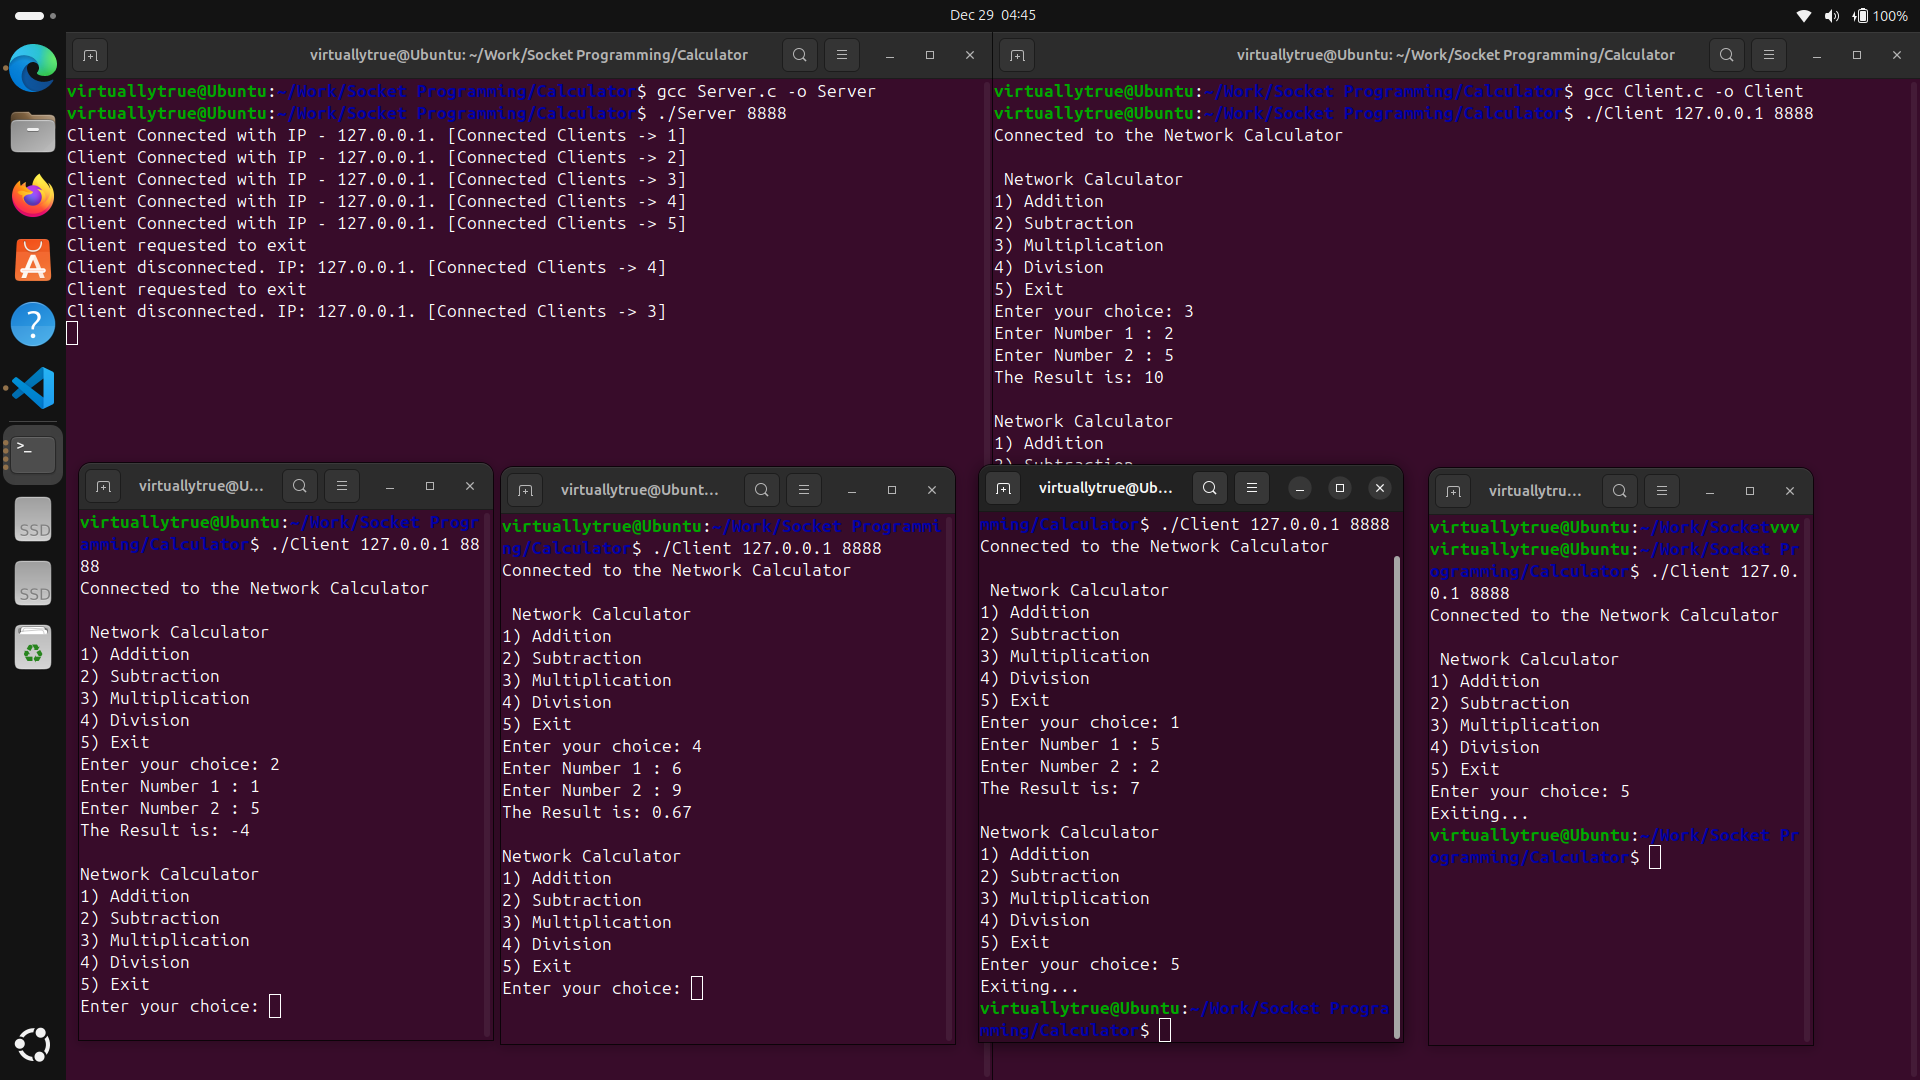
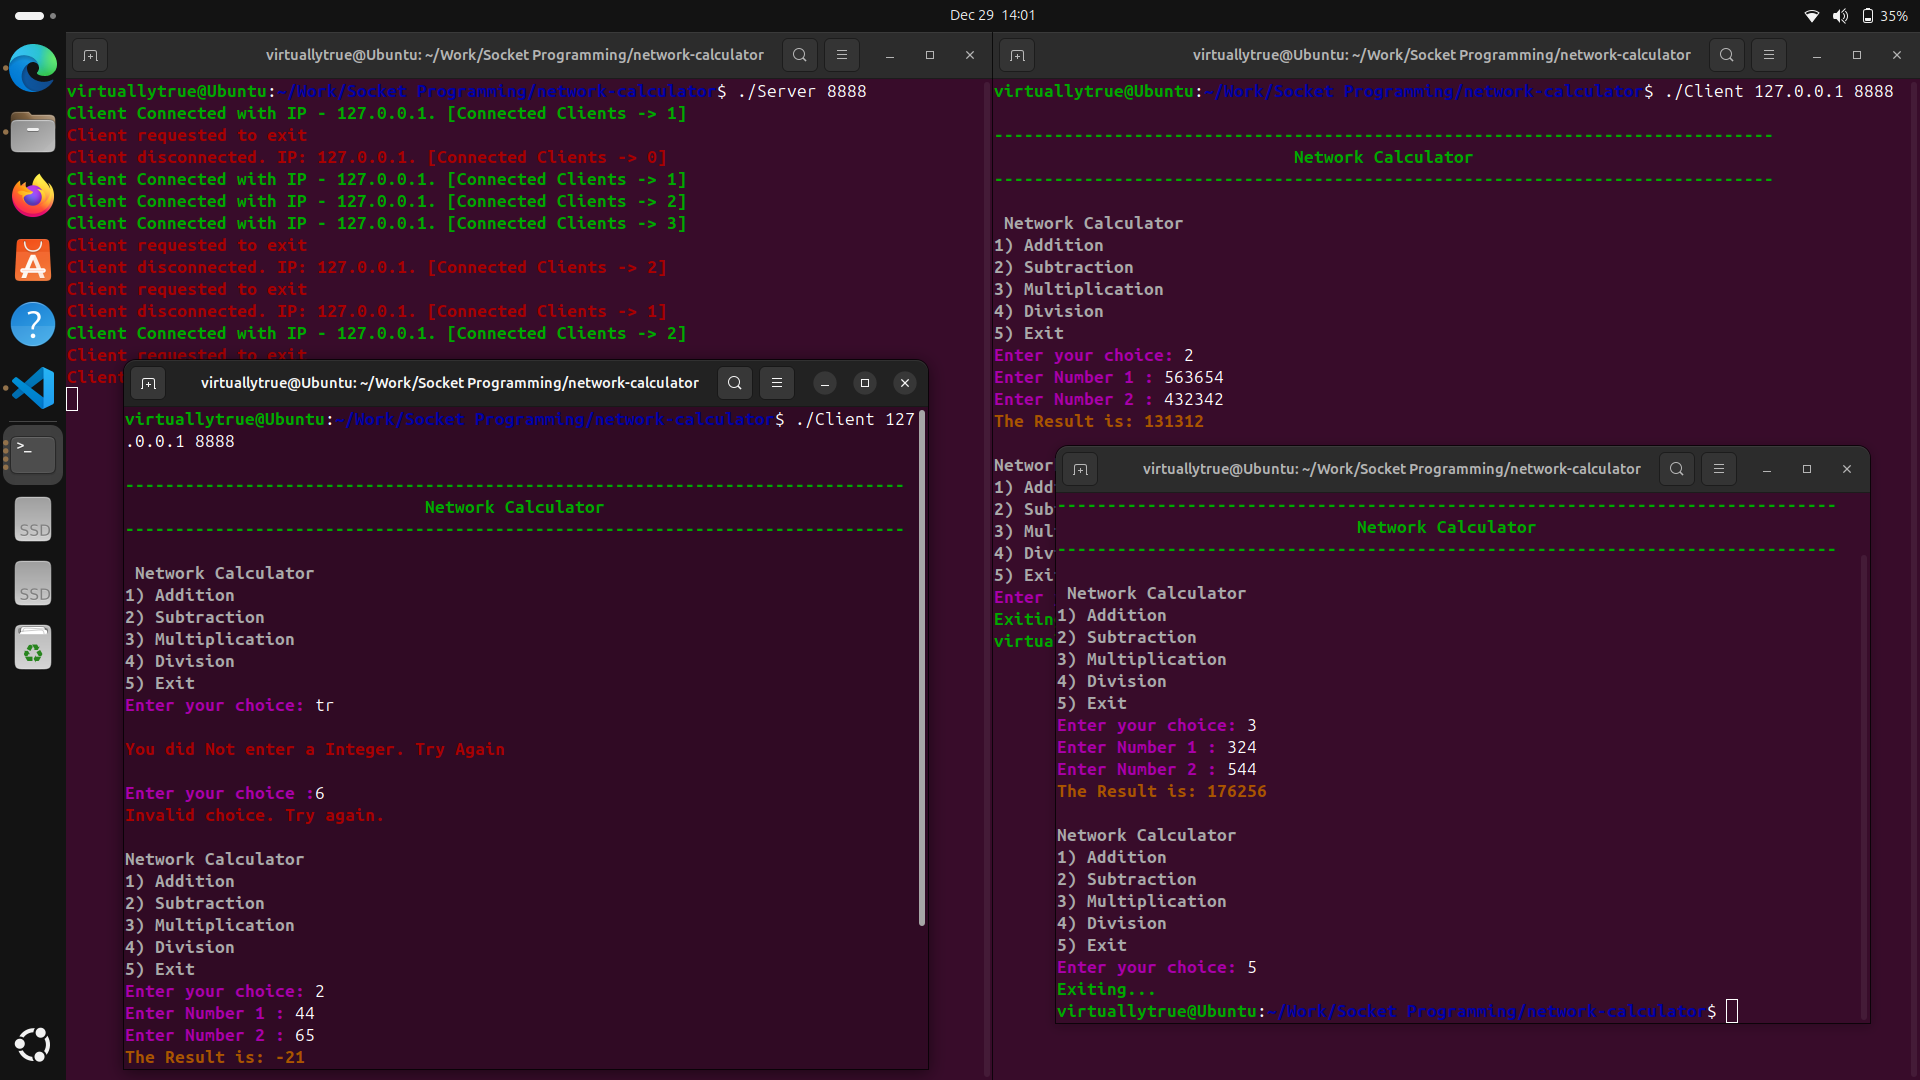
Added support for colored terminal messages

Changed region(s): [[0.0312, 0.0306, 1.0, 1.0], [0.9375, 0.0, 1.0, 0.0306]]

diff --git a/Server.c b/Server.c
@@ -24,14 +24,14 @@ void createsocketandbind(int port_num){
 
      sockFD = socket(AF_INET,SOCK_STREAM,0);
      if(sockFD<0)
-        error("Error In Making The Socket");
+        error("\033[1;31mError In Making The Socket\033[0m");
 
     server_addr.sin_family = AF_INET;
     server_addr.sin_port = htons(port_num);
     server_addr.sin_addr.s_addr = INADDR_ANY;
 
     if(bind(sockFD, (struct sockaddr *)&server_addr,sizeof(server_addr)))
-        error("Error While Binding");
+        error("\033[1;31mError While Binding\033[0m");
 
 }
 
@@ -67,7 +67,7 @@ void *AcceptedClientProcessing(void *arg) {
 
       // Get the client's address
     if (getpeername(newsockFD, (struct sockaddr *)&client_addr, &client_len) == -1) {
-        perror("getpeername failed");
+        perror("\033[1;31mgetpeername failed\033[0m");
         return NULL;
     }
 
@@ -75,42 +75,42 @@ void *AcceptedClientProcessing(void *arg) {
 
     while (1) {
         // Send the menu
-        if(writingtoClient(" Network Calculator\n1) Addition\n2) Subtraction\n3) Multiplication\n4) Division\n5) Exit\nEnter your choice: ", newsockFD)==1)
+        if(writingtoClient(" \033[1;37mNetwork Calculator\n1) Addition\n2) Subtraction\n3) Multiplication\n4) Division\n5) Exit\033[1;35m\nEnter your choice: \033[0m", newsockFD)==1)
             break;
 
         // Read the client's choice
         if(readfromClient(newsockFD,&choice)==1)
             break;
         if (choice >= 1 && choice <= 4) {
-            if(writingtoClient("Enter Number 1 : ", newsockFD)==1)
+            if(writingtoClient("\033[1;35mEnter Number 1 : \033[0m", newsockFD)==1)
                 break;
             if(readfromClient(newsockFD,&num1)==1)
                 break;
 
-            if(writingtoClient("Enter Number 2 : ", newsockFD)==1)
+            if(writingtoClient("\033[1;35mEnter Number 2 : \033[0m", newsockFD)==1)
                 break;
             if(readfromClient(newsockFD,&num2)==1)
                 break;
 
             char result[50];
             switch (choice) {
-                case 1: snprintf(result, sizeof(result), "The Result is: %d\n", num1 + num2); break;
-                case 2: snprintf(result, sizeof(result), "The Result is: %d\n", num1 - num2); break;
-                case 3: snprintf(result, sizeof(result), "The Result is: %d\n", num1 * num2); break;
-                case 4: snprintf(result, sizeof(result), "The Result is: %.2f\n", num2 ? (float)num1 / num2 : 0.0); break;
+                case 1: snprintf(result, sizeof(result), "\033[1;33mThe Result is: %d\033[0m\n", num1 + num2); break;
+                case 2: snprintf(result, sizeof(result), "\033[1;33mThe Result is: %d\033[0m\n", num1 - num2); break;
+                case 3: snprintf(result, sizeof(result), "\033[1;33mThe Result is: %d\033[0m\n", num1 * num2); break;
+                case 4: snprintf(result, sizeof(result), "\033[1;33mThe Result is: %.2f\033[0m\n", num2 ? (float)num1 / num2 : 0.0); break;
             }
             if(writingtoClient(result, newsockFD)==1)
                 break;
         } else if (choice == 5) {
-            printf("Client requested to exit\n");
+            printf("\033[1;31mClient requested to exit\033[0m\n");
             break;
         } else {
-            if(writingtoClient("Invalid choice. Try again.\n", newsockFD)==1)
+            if(writingtoClient("\033[1;31mInvalid choice. Try again.\033[0m\n", newsockFD)==1)
                 break;
         }
     }
     exit:close(newsockFD);
-    printf("Client disconnected. IP: %s. [Connected Clients -> %d]\n", inet_ntoa(client_addr.sin_addr), --count);
+    printf("\033[1;31mClient disconnected. IP: %s. [Connected Clients -> %d]\033[0m\n", inet_ntoa(client_addr.sin_addr), --count);
 }
 
 
@@ -121,7 +121,7 @@ void AcceptingClient(){
         socklen_t client_len = sizeof(client_addr);
 
         int newsockfd = accept(sockFD, (struct sockaddr *)&client_addr, &client_len);
-        printf("Client Connected with IP - %s. [Connected Clients -> %d]\n",inet_ntoa(client_addr.sin_addr),++count);
+        printf("\033[1;32mClient Connected with IP - %s. [Connected Clients -> %d]\033[0m\n",inet_ntoa(client_addr.sin_addr),++count);
         pthread_t id;
         pthread_create(&id,NULL,AcceptedClientProcessing,&newsockfd);
     }
@@ -129,7 +129,7 @@ void AcceptingClient(){
 
 int main(int argc, char *argv[]) {
     if (argc < 2) {
-        fprintf(stderr, "Usage: %s <Port>\n", argv[0]);
+        fprintf(stderr, "\033[1;31mUsage: %s <Port>\033[0m\n", argv[0]);
         exit(1);
     }
 

diff --git a/Client.c b/Client.c
@@ -14,24 +14,24 @@ void error(const char *msg) {
     exit(1);
 }
 
-void writeaInt(){
+void writeaInt(int num){
     int choice;
     
     int scan = scanf("%d",&choice);
     while(scan!=1)
     {   
-        printf("You did Not enter a Integer. Try Again\nEnter your choice :");
+        printf("\033[1;31m\nYou did Not enter a Integer. Try Again\033[1;35m\n\nEnter your number %d again :\033[0m",num);
         while (getchar() != '\n');
         scan = scanf("%d",&choice);
     }
     if(write(sockFD,&choice,sizeof(int))<0)
-        printf("Error In Writing");
+        printf("\033[1;31m\nError In Writing\033[0m\n");
 }
 
 void readstring(){
     char buffer[256];
     if(read(sockFD,buffer,sizeof(buffer))<=0)
-        error("Error in Reading from the server");
+        error("\033[1;31m\nError in Reading from the server\033[0m\n");
     printf("%s",buffer);
 }
 
@@ -44,7 +44,7 @@ int main(int argc, char* argv[]){
 
     server = gethostbyname(argv[1]);
     if (server == NULL) {
-        fprintf(stderr, "Error: No such host\n");
+        printf("\033[1;31m\nError: No such host\033[0m\n\n");
         exit(1);
     }
 
@@ -53,15 +53,15 @@ int main(int argc, char* argv[]){
     bcopy((char *)server->h_addr_list[0], (char *)&server_addr.sin_addr.s_addr, server->h_length);
 
     if(connect(sockFD, (struct sockaddr *)&server_addr, sizeof(server_addr))<0)
-        error("Error in Connection");
+        error("\033[1;31m\nError in Connection\033[0m\n");
 
-    printf("Connected to the Network Calculator\n");
+    printf("\033[1;32m\n------------------------------------------------------------------------------\n                              Network Calculator                              \n------------------------------------------------------------------------------\033[0m\n");
     char buffer[255];
     while(1)
     {
         printf("\n");
         if(read(sockFD,buffer,sizeof(buffer))<=0)
-            error("Error in Reading Menu from Server");
+            error("\033[1;31m\nError in Reading Menu from Server\033[0m\n");
         printf("%s",buffer);
 
 
@@ -69,24 +69,24 @@ int main(int argc, char* argv[]){
         int scan = scanf("%d",&choice);
         while(scan!=1)
         {   
-            printf("You did Not enter a Integer. Try Again\nEnter your choice :");
+            printf("\033[1;31m\nYou did Not enter a Integer. Try Again\033[1;35m\n\nEnter your choice :\033[0m");
             while (getchar() != '\n');
             scan = scanf("%d",&choice);
         }
         
         if (write(sockFD, &choice, sizeof(int)) <= 0)
-            error("Error in Sending Choice to Server");
+            error("\033[1;31m\nError in Sending Choice to Server\033[0m\n");
 
 
         if (choice >= 1 && choice <= 4) {
             readstring(); // Prompt for Number 1
-            writeaInt();  // Send Number 1
+            writeaInt(1);  // Send Number 1
             readstring(); // Prompt for Number 2
-            writeaInt();  // Send Number 2
+            writeaInt(2);  // Send Number 2
             readstring(); // Display Result
         }
         else if (choice == 5) {
-            printf("Exiting...\n");
+            printf("\033[1;32mExiting...\033[0m\n");
             break;
         } 
         else 
